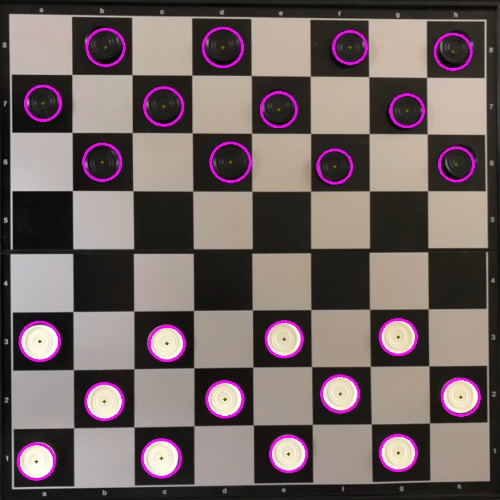
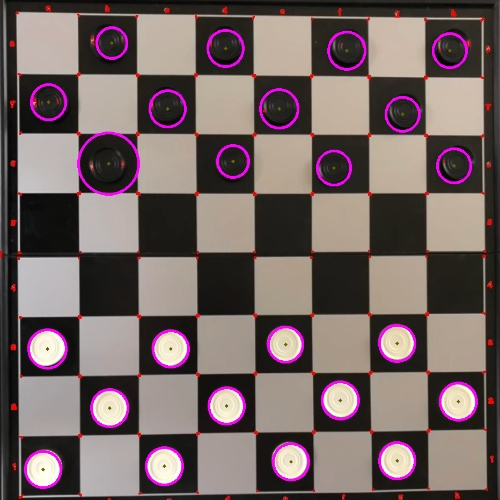
popraweczka glupiej pomylki

Changed region(s): [[0.0, 0.0, 1.0, 1.0]]

diff --git a/checker_circlesv2.py b/checker_circlesv2.py
@@ -50,14 +50,14 @@ def corners2(img, plik):
                leftdown = [i, j]
             if(img[i][j][1]==255) and dist([width,heigth], rightdown) > dist([width,heigth], [i, j]):
                rightdown = [i, j]
-    lefttop[0] = int(lefttop[0]/width*width2)
-    lefttop[1] = int(lefttop[1] / heigth* heigth2)
-    righttop[0] = int(righttop[0] / width * width2)
-    righttop[1] = int(righttop[1] / heigth * heigth2)
-    leftdown[0] = int(leftdown[0] / width * width2)
-    leftdown[1] = int(leftdown[1] / heigth * heigth2)
-    rightdown[0] = int(rightdown[0] / width * width2)
-    rightdown[1] = int(rightdown[1] / heigth * heigth2)
+    lefttop[0] = int(lefttop[0]/(width-1)*(width2-1))
+    lefttop[1] = int(lefttop[1] / (width-1)*(width2-1))
+    righttop[0] = int(righttop[0] / (width-1)*(width2-1))
+    righttop[1] = int(righttop[1] / (width-1)*(width2-1))
+    leftdown[0] = int(leftdown[0] / (width-1)*(width2-1))
+    leftdown[1] = int(leftdown[1] / (width-1)*(width2-1))
+    rightdown[0] = int(rightdown[0] / (width-1)*(width2-1))
+    rightdown[1] = int(rightdown[1] / (width-1)*(width2-1))
     print(lefttop, righttop, leftdown, rightdown)
     cv.imwrite('dst.jpg', img)
 
@@ -147,7 +147,6 @@ def lines(name, a, b):
     #cv.imshow('l', blank_image)
     #cv.imwrite('lol2.jpg', src)
     return blank_image
-    cv.waitKey()
 
 def linepoints(img, line, gray):
     rho = line[0][0]
@@ -215,13 +214,24 @@ def final(name, circles, lefttop, righttop, leftdown, rightdown):
                 pionki.append([j, i])
                 # plansza[county][countx] = gray[j+szerokosc//16,i+wysokosc//16]
                 plansza[county][countx] = 1
-                cv.circle(img, (j + szerokosc // 16, i + wysokosc // 16), 3, (0, 100, 100), 3)
+                cv.circle(img, (j + szerokosc // 16, i + wysokosc // 16), 3, (0, 255, 0), 3)
             countx += 1
         countx = 0
         county += 1
     print(len(pionki))
     for i in plansza:
         print(i)
+    if circles is not None:
+        circles = np.uint16(np.around(circles))
+        for i in circles[0, :]:
+            center = (i[0], i[1])
+            cv.circle(img, center, 1, (0, 100, 100), 3)
+            radius = i[2]
+            cv.circle(img, center, radius, (0, 0, 255), 3)
+    cv.circle(img, tuple(righttop), 3, (0, 0, 255), 3)
+    cv.circle(img, tuple(rightdown), 3, (0, 0, 255), 3)
+    cv.circle(img, tuple(lefttop), 3, (0, 0, 255), 3)
+    cv.circle(img, tuple(leftdown), 3, (0, 0, 255), 3)
     cv.imwrite('final.jpg', img)
     cv.waitKey()
 
@@ -236,7 +246,7 @@ def final(name, circles, lefttop, righttop, leftdown, rightdown):
 # print (count)
 #circles(30,55)
 
-plik = 'boaard.png'
+plik = 'KOXimg.jpg'
 
 zdj = lines(plik, 50, 40)
 lefttop, righttop, leftdown, rightdown = corners2(zdj, plik)
